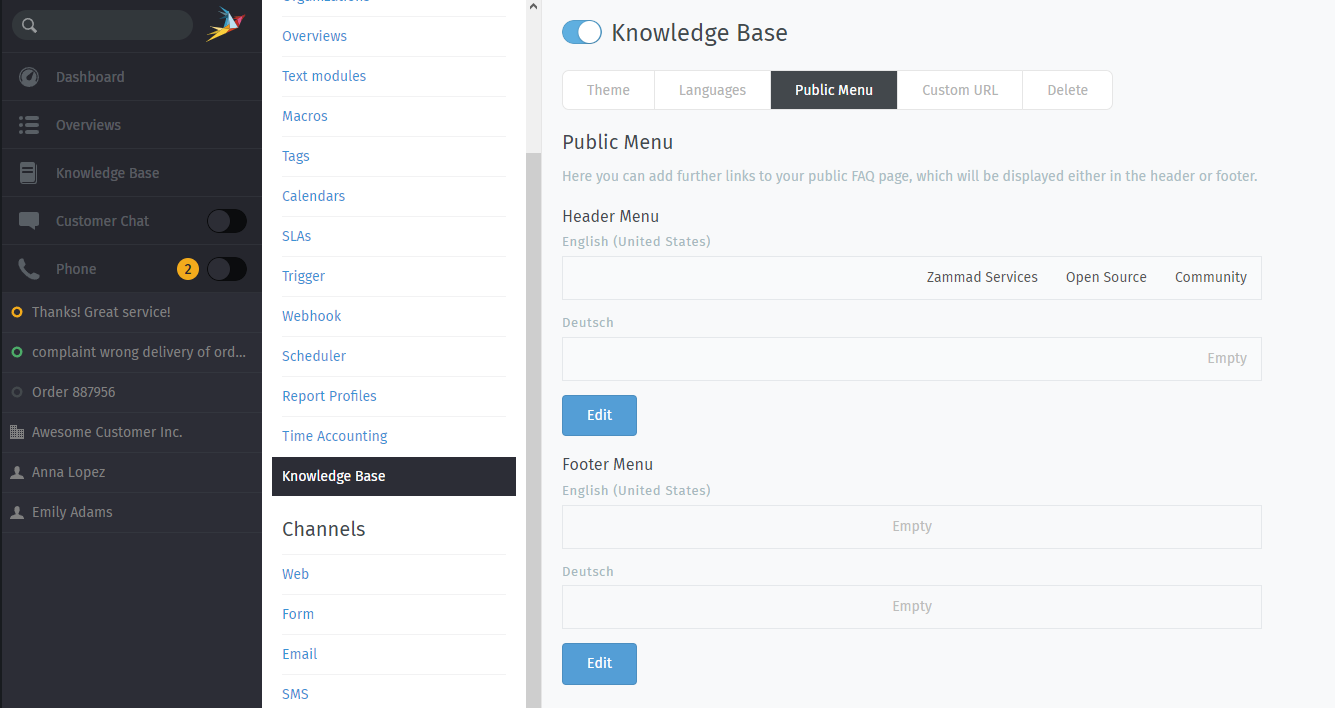
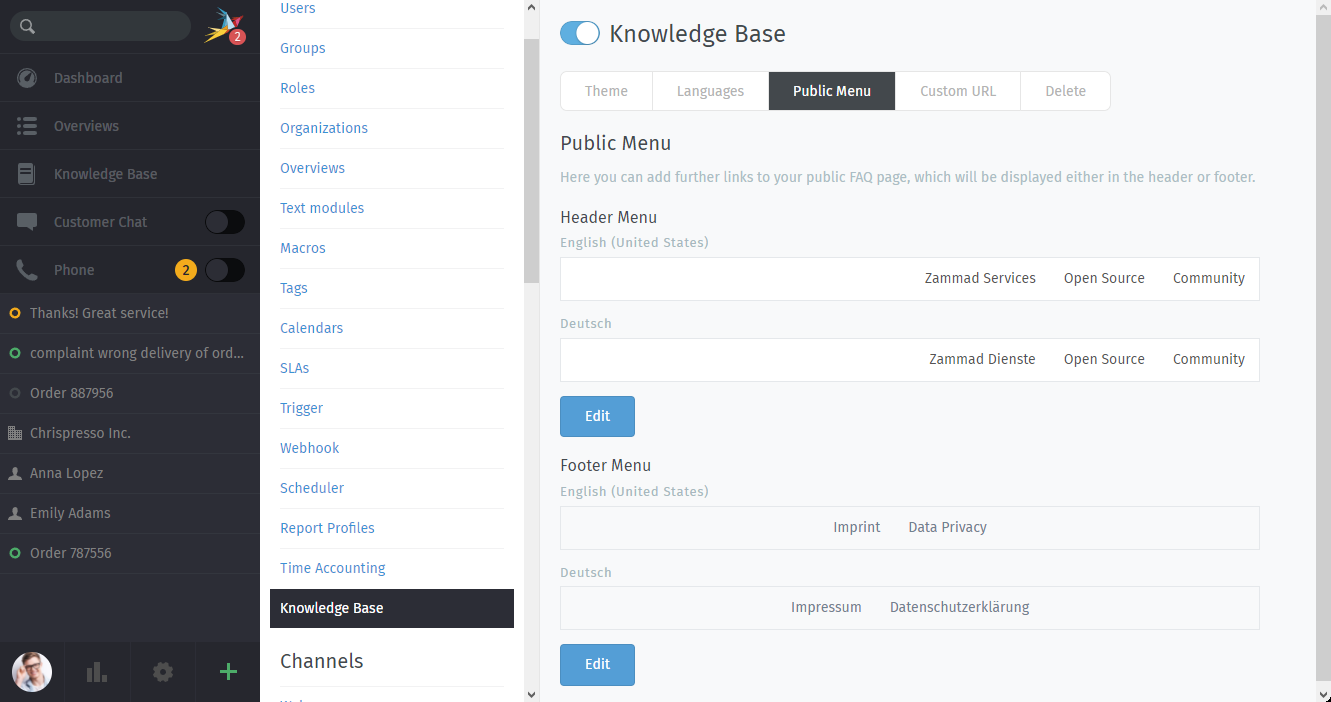
Update public menu of KB

diff --git a/manage/knowledge-base.rst b/manage/knowledge-base.rst
@@ -106,24 +106,52 @@ from that locale.
 Public Menu
 ^^^^^^^^^^^
 
-.. figure:: /images/manage/knowledge-base/knowledge-base-public-menu.png
-   :alt: Knowledge Base: Configure public menu
-   :align: center
-
-   🧭 Customize the nav menu that appears in the header of the knowledge base.
-
-
-.. hint::
-
-   "Target" let's you decide if you want the link to be opened within a new
-   browser tab upon click or not.
-
 Use this section to unify the knowledge base with your own website’s main
 navigation. Entries added here will appear in the knowledge base like so:
 
 .. figure:: /images/manage/knowledge-base/knowledge-base-public-menu-result.png
    :alt: Knowledge Base: Public menu
    :align: center
+
+Zammad will provide a list of the current set links per knowledge base language.
+If you're missing a language, you'll have to add the language up ront.
+
+You can adjust every URL on language level.
+
+.. figure:: /images/manage/knowledge-base/knowledge-base-public-menu.png
+   :alt: Knowledge Base: Configure public menu
+   :align: center
+
+   🧭 Customize the nav menu that appears in the header of the knowledge base.
+
+Arranging URLs
+   By clicking on "Edit", Zammad allows you to add, update, re-arrange or
+   remove URLs from either your public header menu or public footer menu.
+
+   Title
+      This is the URL title that's being displayed to your users.
+
+   URL
+      The actual URL the user is going to open upon clicking.
+
+   Target
+      Allows you to tell your users browser to open the URL in a new tab.
+      By default your user would leave the knowledge base page if not set.
+
+   Delete
+      If you tick the delete field, the URL will be removed from the menu upon
+      pressing on the "Submit" button.
+
+   Change URLs position
+      Use ☰ to drag & drop the URLs in question to the new desired position.
+      Your changes will be saved with pressing the "Submit" button.
+
+      .. figure:: /images/manage/knowledge-base/repositioning-public-menu-urls.gif
+         :alt: Screencast showing the repositioning of URLs
+         :align: center
+
+         Re-arranging URL positions works for the header menu just as the
+         footer menu
 
 Custom URL
 ^^^^^^^^^^
